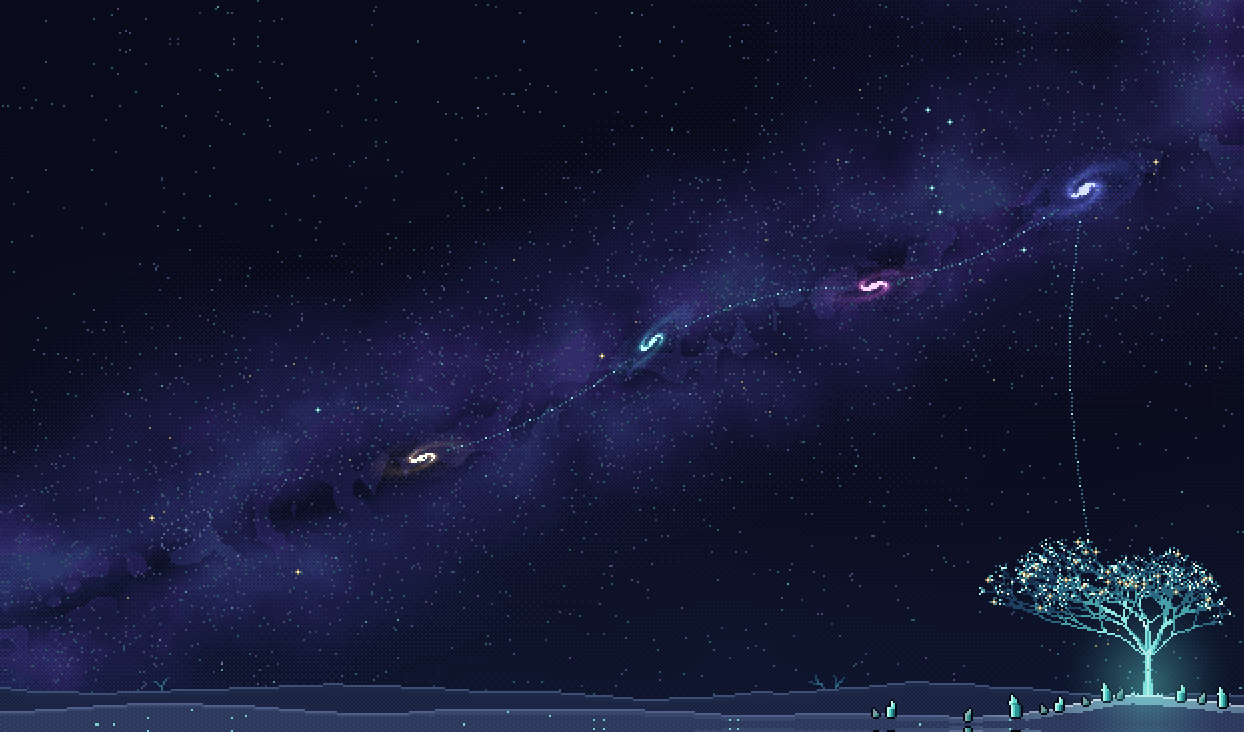
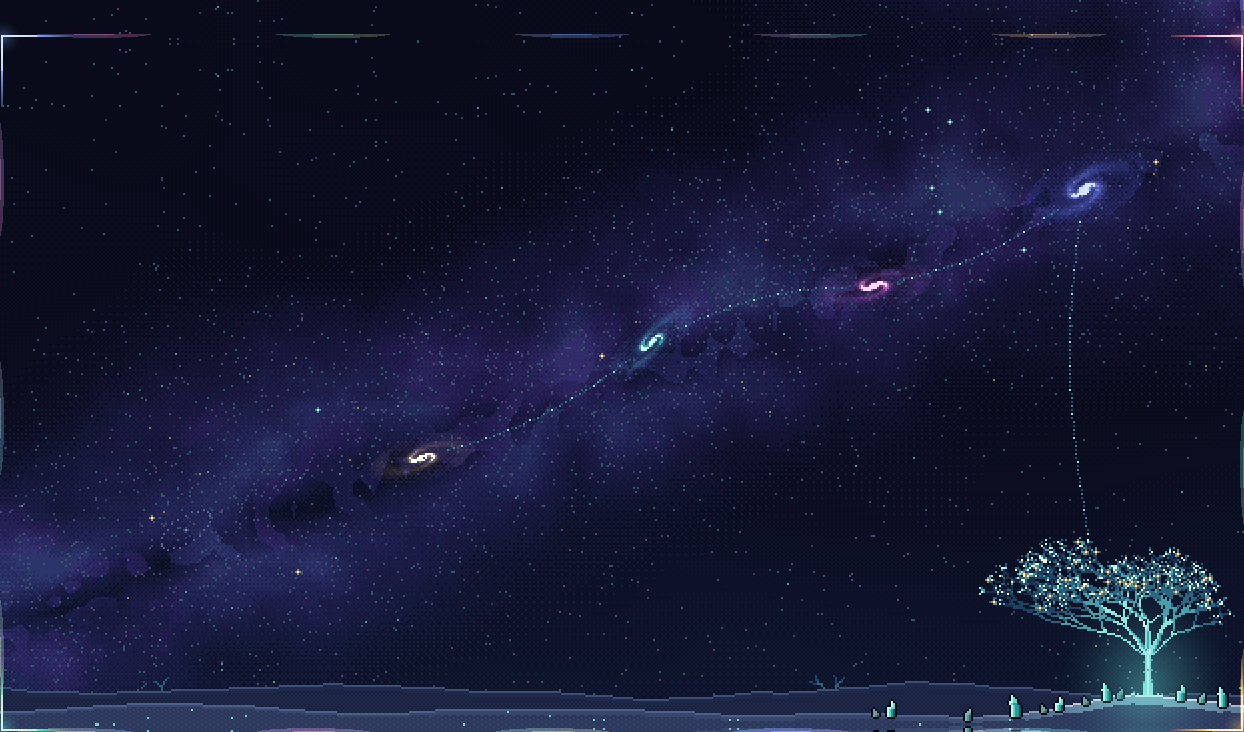
Star Sanctum: gold rims and starlight on the terminal frame, the lower panel's galaxies moved up, brighter gold dust at the fourth star (v1.2.2)

diff --git a/mods/pixel-quest/update.js b/mods/pixel-quest/update.js
@@ -5,7 +5,7 @@
 // Copyright (c) 2026 cubha. MIT License.
 
 /** This build. mod.json's "version" and the release tag (v<this>) say the same (tests check). */
-export const VERSION = "1.2.1";
+export const VERSION = "1.2.2";
 export const REPO = "cubha/herdr-pixel-quest";
 /** Public, no sign-in: 60 requests an hour per address, and this asks four times a day. */
 export const LATEST_URL = `https://api.github.com/repos/${REPO}/releases/latest`;

diff --git a/art-src/gen_astral.py b/art-src/gen_astral.py
@@ -95,6 +95,46 @@ def scene(bucket):
     return np.pad(full, ((OY, HB - OY - tab5.TH), (OX, W - OX - wt), (0, 0)), mode='reflect')
 
 
+TOP = 34                                            # the pane header over the scene's top
+
+
+def rim(a, S):
+    """The terminal frame's sheen and starlight (the mockup's astral.adorn on its gold), drawn
+    just inside it: Herdr draws the frame itself (a 2 px gold line, color only) on the scene's
+    edge, and the pane header covers the scene's top TOP px (measured on a 1280 x 820 window,
+    2026-11-28). Galaxy sheen from stage 3, starlight running from each corner along the
+    edges from stage 2. The scene is fit by cover, so a box far from its shape bucket crops a
+    few px of it off one pair of edges."""
+    if S < 2:
+        return a
+    a = a.astype(np.float32)
+    H, W = a.shape[:2]
+    yy, xx = np.mgrid[0:H, 0:W]
+    d = np.minimum(np.minimum(xx, W - 1 - xx), np.minimum(np.where(yy >= TOP, yy - TOP, 99), H - 1 - yy))
+    near = d < 12
+    sh = [0, 0, 0.22, 0.36, 0.5][S - 1]
+    if sh:
+        cs = np.array(GC[:S] + GC[:1], np.float32)
+        ph = ((xx + yy * 0.6) / 150.0) % S
+        i0 = np.floor(ph).astype(int)
+        col = cs[i0] + (cs[i0 + 1] - cs[i0]) * (ph - i0)[..., None]
+        wv = (0.5 + 0.5 * np.sin((xx - yy) / 38.0)) ** 2
+        f = np.clip(1 - d / 6.0, 0, 1) ** 1.5                       # brightest against the gold, gone 6 px in
+        m = np.round(sh * wv * f * 1.2 * 4) / 4                     # 4 steps: a smooth ramp would cost ~30 KB a scene
+        a[near] = a[near] + np.round(col[near] / 16) * 16 * m[near][:, None]
+    Lr = [0, 14, 24, 36, 50][S - 1] * 2                            # the mockup's light was on a 2-px-per-dot screen
+    k = 0
+    for cx, cy, sx, sy in ((1, TOP + 1, 1, 1), (W - 3, TOP + 1, -1, 1), (1, H - 3, 1, -1), (W - 3, H - 3, -1, -1)):
+        g = np.array(GC[k % S], np.float32); k += 1
+        for q in range(0, Lr, 2):
+            f = 1 - q / Lr
+            c = (np.array((255, 252, 240), np.float32) * f + g * (1 - f)) if f > 0.5 else g * (0.35 + 1.3 * f)
+            for (x, y) in ((cx + sx * q, cy), (cx, cy + sy * q)):
+                a[y:y + 2, x:x + 2] = np.maximum(a[y:y + 2, x:x + 2], c)
+        A.glow(a, cx + sx * 2, cy + sy * 2, 10 + 2 * S, tuple(g), 0.18 + 0.04 * S)
+    return a
+
+
 # ───────────── walls, floors, the ledge ─────────────
 def strip(rows):
     """A wall band (2560 x 48) from 48 rows of the night: mirrored at 1280 so it has no seam,
@@ -253,7 +293,7 @@ def stage(S):
     name = f'{KEY}{S}'
     Z = os.path.join(ART, 'zone', name)
     for b in GZS.BUCKETS:
-        GZS.save(np.clip(scene(b), 0, 255).astype(np.uint8), os.path.join(LOOK, f'deco-{name}-none-{b}.png'))   # as the mockup saves it, every color kept (a cut rings the tree's glow)
+        GZS.save(np.clip(rim(scene(b), S), 0, 255).astype(np.uint8), os.path.join(LOOK, f'deco-{name}-none-{b}.png'))   # as the mockup saves it, every color kept (a cut rings the tree's glow)
     save(GZS.wall(KEY, os.path.join(ART, 'bg-work.png'), 800, 1280)[::2, ::2], os.path.join(Z, 'bg-work.png'))
     night = c4.up(A.wall(3))
     save(strip(night[:48]), os.path.join(Z, 'strip-top.png'))

diff --git a/art-src/astral/astral.py b/art-src/astral/astral.py
@@ -112,11 +112,15 @@ def floor(seed=7):
     bb = np.clip(b, 0, 1)[..., None]
     if S >= 2: t = t + np.clip(n1 - 0.45, 0, 1)[..., None] * bb * np.array((150, 30, 110), np.float32) * min(1, k * 1.6)      # 장밋빛
     if S >= 3: t = t + np.clip(n2 - 0.45, 0, 1)[..., None] * bb * np.array((0, 130, 120), np.float32) * k * 1.2             # 청록
-    if S >= 4: t = t + np.clip(n3 - 0.5, 0, 1)[..., None] * bb * np.array((150, 100, 10), np.float32) * (0.7 if S == 4 else 1.1)   # 금빛 먼지
+    if S >= 4: t = t + np.clip(n3 - (0.44 if S == 4 else 0.5), 0, 1)[..., None] * bb * np.array((150, 100, 10), np.float32) * (1.05 if S == 4 else 1.1)   # 금빛 먼지(★4도 ★3과 한눈에 다르게)
     DIMT = lambda tn: [tuple(v * 1.15 for v in c) for c in TONE[tn][:6]] + [tuple(v * 0.8 for v in TONE[tn][6])]
-    for i, (gx, gy, gr) in enumerate([(98, 356, 20), (40, 104, 17), (104, 190, 16), (36, 268, 15)]):
+    # (x, y, r, tilt, seed, tone) by the stage that lights it. The first sits high in the lower
+    # panel (y 268 = about 106 px under its top), so ★2~4 show it with the hero's panel open;
+    # ★5 adds the one further down. ★5 has the same four as the mockup.
+    for i, (gx, gy, gr, tl, sd, tn) in enumerate([(36, 268, 15, 0.5, 10, 'v'), (40, 104, 17, -0.1, 8, 't'),
+                                                  (104, 190, 16, 0.2, 9, 'g'), (98, 356, 20, -0.4, 7, 'r')]):
         if S >= i + 2:
-            t = t + quant(spiral(h, w, gx, gy, gr, -0.4 + 0.3 * i, 0.45, seed=i + 7) ** 0.75, DIMT(TN[i + 1]), h, w)
+            t = t + quant(spiral(h, w, gx, gy, gr, tl, 0.45, seed=sd) ** 0.75, DIMT(tn), h, w)
     rnd = random.Random(seed)
     for _ in range(1100 + 500 * (S - 1)):
         x, y = rnd.randrange(w), rnd.randrange(h)
